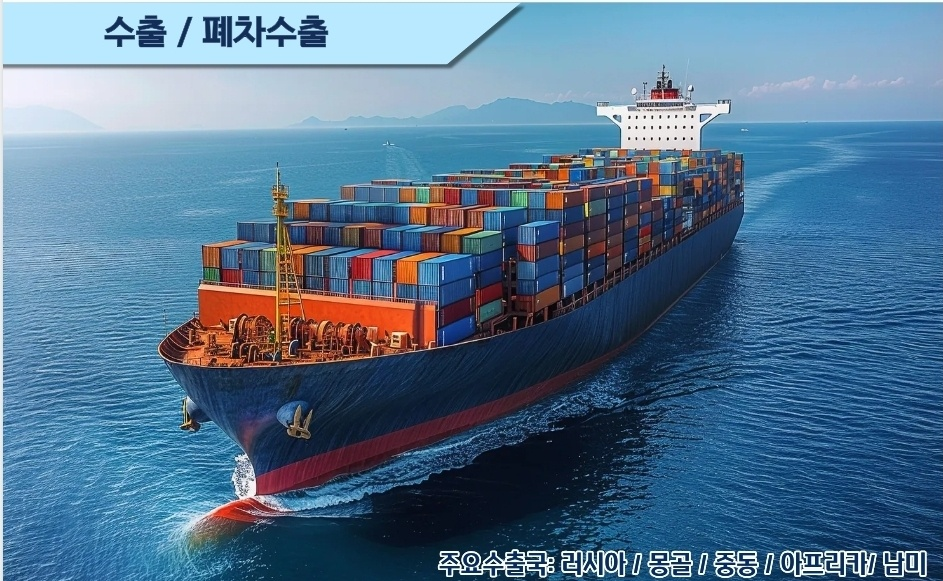
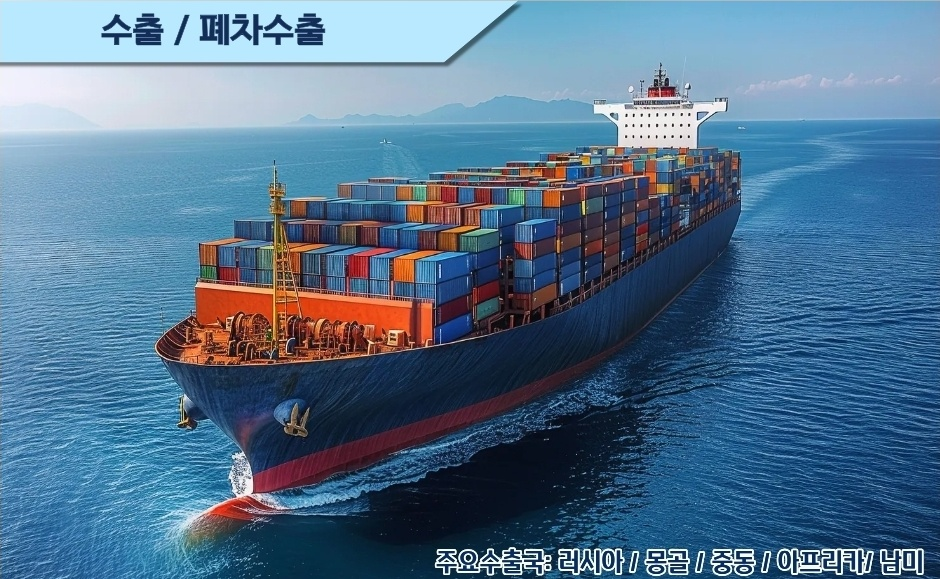
Add files via upload

diff --git a/index.html b/index.html
@@ -457,7 +457,7 @@ footer .copy{margin-top:22px;font-size:12px;color:#9AA3B2}
 <section class="solve" id="promise"><h2>“이제는 오션카오토가<br>해결하겠습니다!”</h2></section>
 
 <!-- ================= 수출 / 폐차수출 ================= -->
-<div class="ph ship"><img src="assets/ship_tag.jpg?v=0926i" alt="수출 / 폐차수출 — 컨테이너를 실은 수출 화물선. 주요수출국: 러시아 / 몽골 / 중동 / 아프리카 / 남미"></div>
+<div class="ph ship"><img src="assets/ship_tag.jpg?v=0926j" alt="수출 / 폐차수출 — 컨테이너를 실은 수출 화물선. 주요수출국: 러시아 / 몽골 / 중동 / 아프리카 / 남미"></div>
 <section class="navyblk" id="expBlk">
   <p class="quote">"국내 시장의 감가기준이 통하지 않는 곳으로<br>차를 보냅니다!"</p>
   <div class="wcard">
